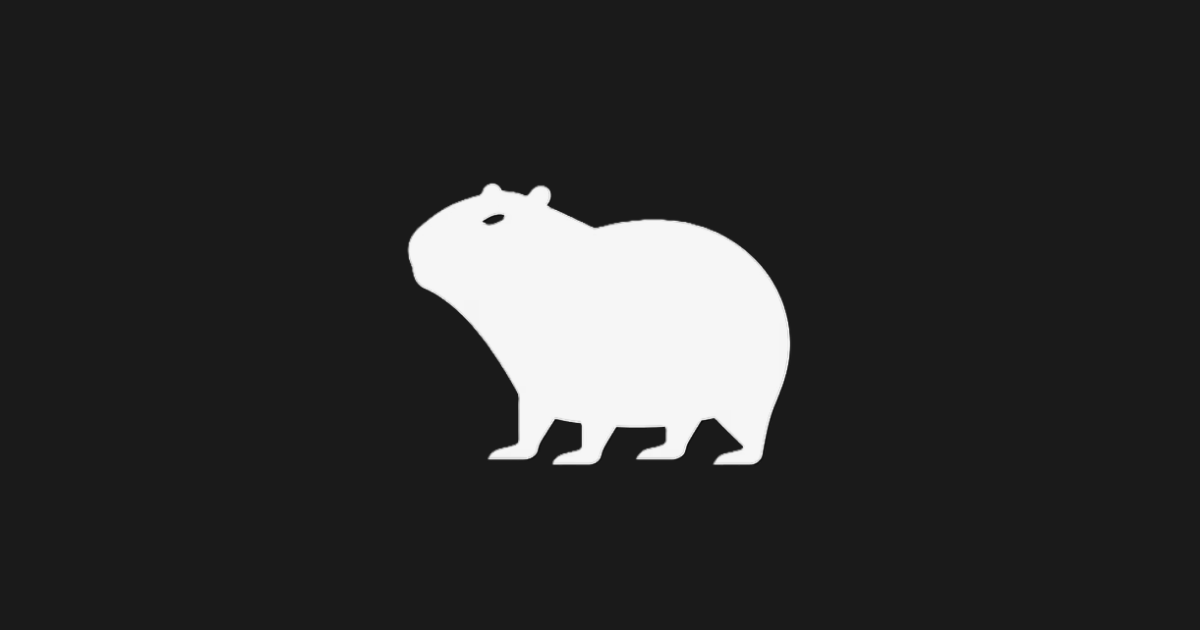
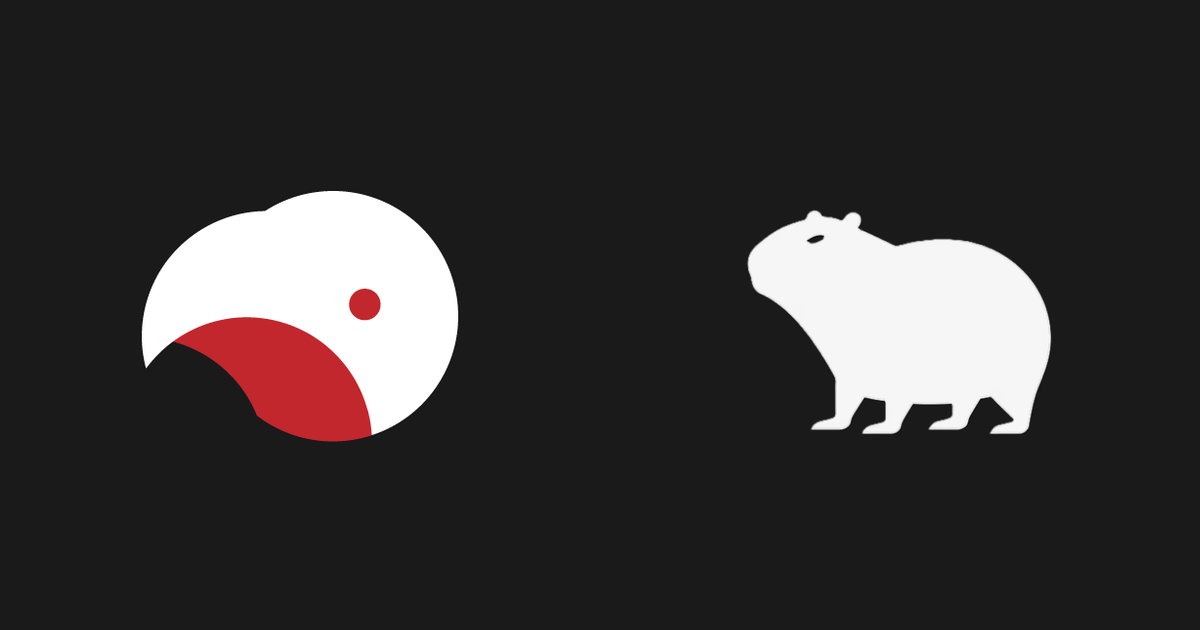
relay: link preview shows CCFOLIA + capybara side by side, new title/description

Changed region(s): [[0.0925, 0.2714, 0.8942, 0.754]]

diff --git a/prototype/public-handout-relay/public/index.html b/prototype/public-handout-relay/public/index.html
@@ -1,19 +1,19 @@
 <!doctype html><html lang="ko"><meta charset="utf-8"><meta name="viewport" content="width=device-width,initial-scale=1"><meta name="robots" content="noindex,nofollow,noarchive"><title>카피바라 플레이 룸</title>
-<meta name="description" content="코코포리아 룸에 웹으로 참여하세요. GM이 승인하면 채팅과 공개 핸드아웃을 볼 수 있어요.">
+<meta name="description" content="카피바라와 함께해요!">
 <meta name="theme-color" content="#1a1a1a">
 <meta property="og:type" content="website">
-<meta property="og:site_name" content="카피바라 웹 공유">
-<meta property="og:title" content="카피바라 웹 공유 · 플레이 룸">
-<meta property="og:description" content="코코포리아 룸에 웹으로 참여하세요. GM이 승인하면 채팅과 공개 핸드아웃을 볼 수 있어요.">
+<meta property="og:site_name" content="CCFOLIA">
+<meta property="og:title" content="CCFOLIA - 코코포리아 / TRPG 온라인 세션툴">
+<meta property="og:description" content="카피바라와 함께해요!">
 <meta property="og:url" content="__PUBLIC_ORIGIN__/">
 <meta property="og:image" content="__PUBLIC_ORIGIN__/og-image.png">
 <meta property="og:image:type" content="image/png">
 <meta property="og:image:width" content="1200">
 <meta property="og:image:height" content="630">
-<meta property="og:image:alt" content="카피바라 웹 공유">
+<meta property="og:image:alt" content="CCFOLIA와 카피바라">
 <meta name="twitter:card" content="summary_large_image">
-<meta name="twitter:title" content="카피바라 웹 공유 · 플레이 룸">
-<meta name="twitter:description" content="코코포리아 룸에 웹으로 참여하세요. GM이 승인하면 채팅과 공개 핸드아웃을 볼 수 있어요.">
+<meta name="twitter:title" content="CCFOLIA - 코코포리아 / TRPG 온라인 세션툴">
+<meta name="twitter:description" content="카피바라와 함께해요!">
 <meta name="twitter:image" content="__PUBLIC_ORIGIN__/og-image.png">
 <link rel="stylesheet" href="/style.css">
 <main><div id="gate" class="backdrop"><section class="dialog" role="dialog" aria-modal="true" aria-labelledby="gate-title"><header><h1 id="gate-title">카피바라 4세 입양</h1></header><div class="dialog-body"><div id="consent"><p>카피바라 4세의 입양을 희망하십니까?<br>카피바라 4세를 입양하면 다양한 기능을 사용할 수 있습니다.</p><label for="display-name">희망자 이름</label><input id="display-name" maxlength="40" autocomplete="nickname" required></div><p id="gate-status" role="status"></p></div><footer id="gate-actions"><button id="join" type="button">동의</button><button id="cancel" type="button">취소</button></footer></section></div>
